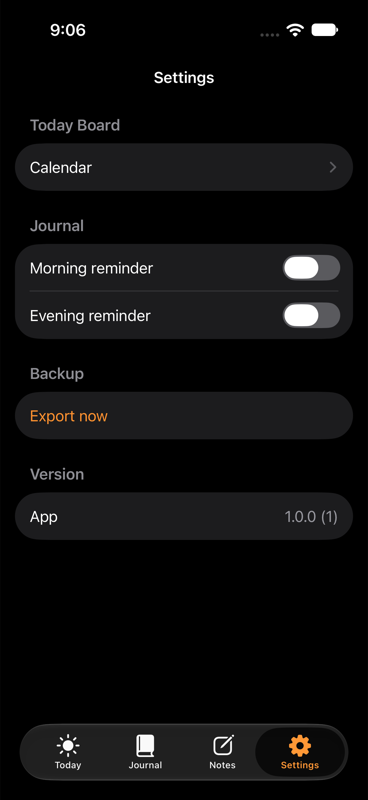
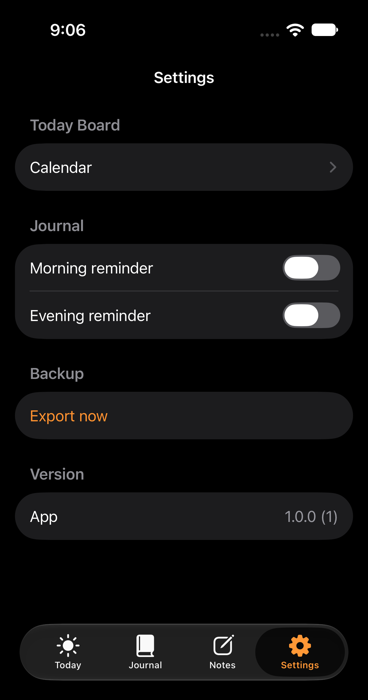
fix: crop dead space out of the Daily Board screenshots
Each PNG had a large empty band between the real content and the
bottom nav bar (up to ~500px of pure black on the Notes screenshot,
which only has one note in it). Cropped all four to a shared 700px
height (down from 800px), removing most of the dead middle band while
keeping the real content and the tab bar intact, so the screenshot in
the carousel isn't mostly empty space. Updated the <img> width/height
attributes to match (368x700).

These are marketing-page copies only; the original full-device
screenshots kept for App Store submission in the daily-board repo are
untouched.

diff --git a/work/daily-board.html b/work/daily-board.html
@@ -107,16 +107,16 @@
             <div class="showcase-media carousel-wrap is-phone">
               <div class="carousel-stage">
                 <div class="carousel-slide is-active">
-                  <img src="../assets/images/daily-board-today.png" width="368" height="800" alt="Today tab: Wed 23 selected in the day strip, two reminders (Call the dentist, Buy groceries) on one timeline, quick-add field at the bottom" />
+                  <img src="../assets/images/daily-board-today.png" width="368" height="700" alt="Today tab: Wed 23 selected in the day strip, two reminders (Call the dentist, Buy groceries) on one timeline, quick-add field at the bottom" />
                 </div>
                 <div class="carousel-slide">
-                  <img src="../assets/images/daily-board-journal.png" width="368" height="800" alt="Journal tab: a morning free-text entry with two AI-suggested to-dos already turned into tappable items, and a 5-emoji evening rating" loading="lazy" />
+                  <img src="../assets/images/daily-board-journal.png" width="368" height="700" alt="Journal tab: a morning free-text entry with two AI-suggested to-dos already turned into tappable items, and a 5-emoji evening rating" loading="lazy" />
                 </div>
                 <div class="carousel-slide">
-                  <img src="../assets/images/daily-board-notes.png" width="368" height="800" alt="Notes tab: a searchable list with one note automatically titled Grocery list from its first line" loading="lazy" />
+                  <img src="../assets/images/daily-board-notes.png" width="368" height="700" alt="Notes tab: a searchable list with one note automatically titled Grocery list from its first line" loading="lazy" />
                 </div>
                 <div class="carousel-slide">
-                  <img src="../assets/images/daily-board-settings.png" width="368" height="800" alt="Settings tab: calendar picker, journal reminder toggles, and a manual backup export button" loading="lazy" />
+                  <img src="../assets/images/daily-board-settings.png" width="368" height="700" alt="Settings tab: calendar picker, journal reminder toggles, and a manual backup export button" loading="lazy" />
                 </div>
               </div>
             </div>
